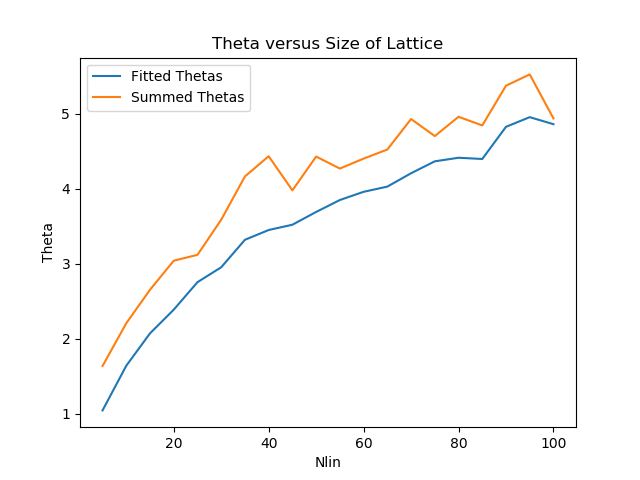
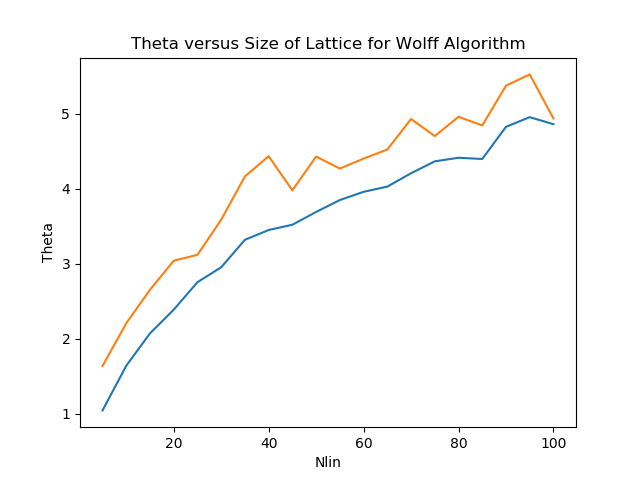
april12_1

Changed region(s): [[0.125, 0.0625, 0.8125, 0.2188]]

diff --git a/hw/10hw/correlation.py b/hw/10hw/correlation.py
@@ -64,7 +64,7 @@ plt.plot(Nlins,fitthetas,label='Fitted Thetas')
 plt.plot(Nlins,sumthetas,label='Summed Thetas')
 plt.xlabel('Nlin')
 plt.ylabel('Theta')
-plt.title('Theta versus Size of Lattice')
+plt.title('Theta versus Size of Lattice for Wolff Algorithm')
 plt.show()
 
 #now fit the functions
